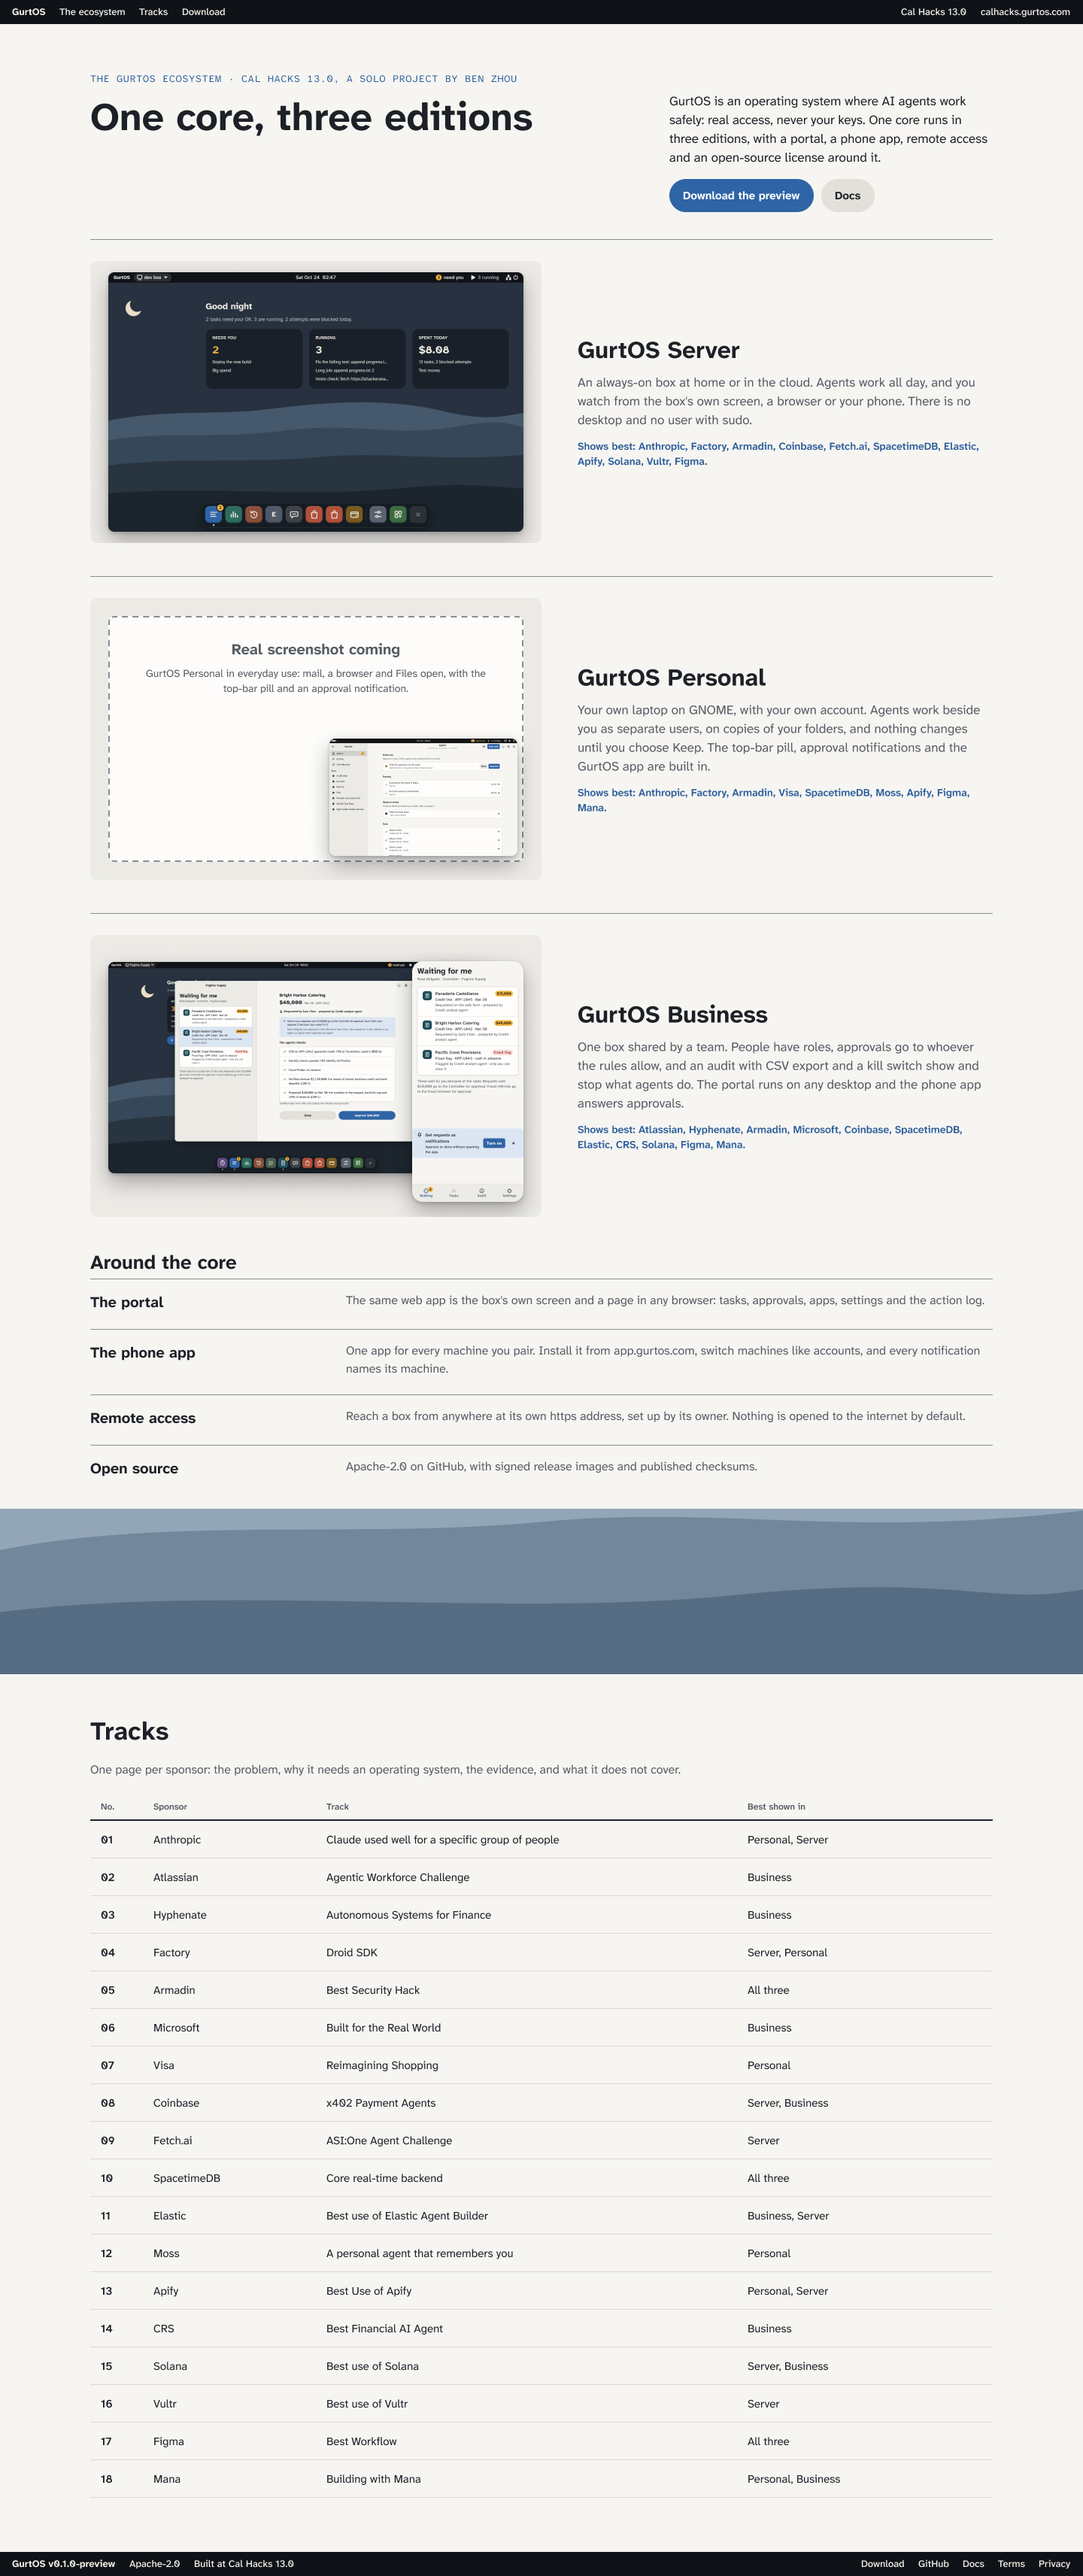
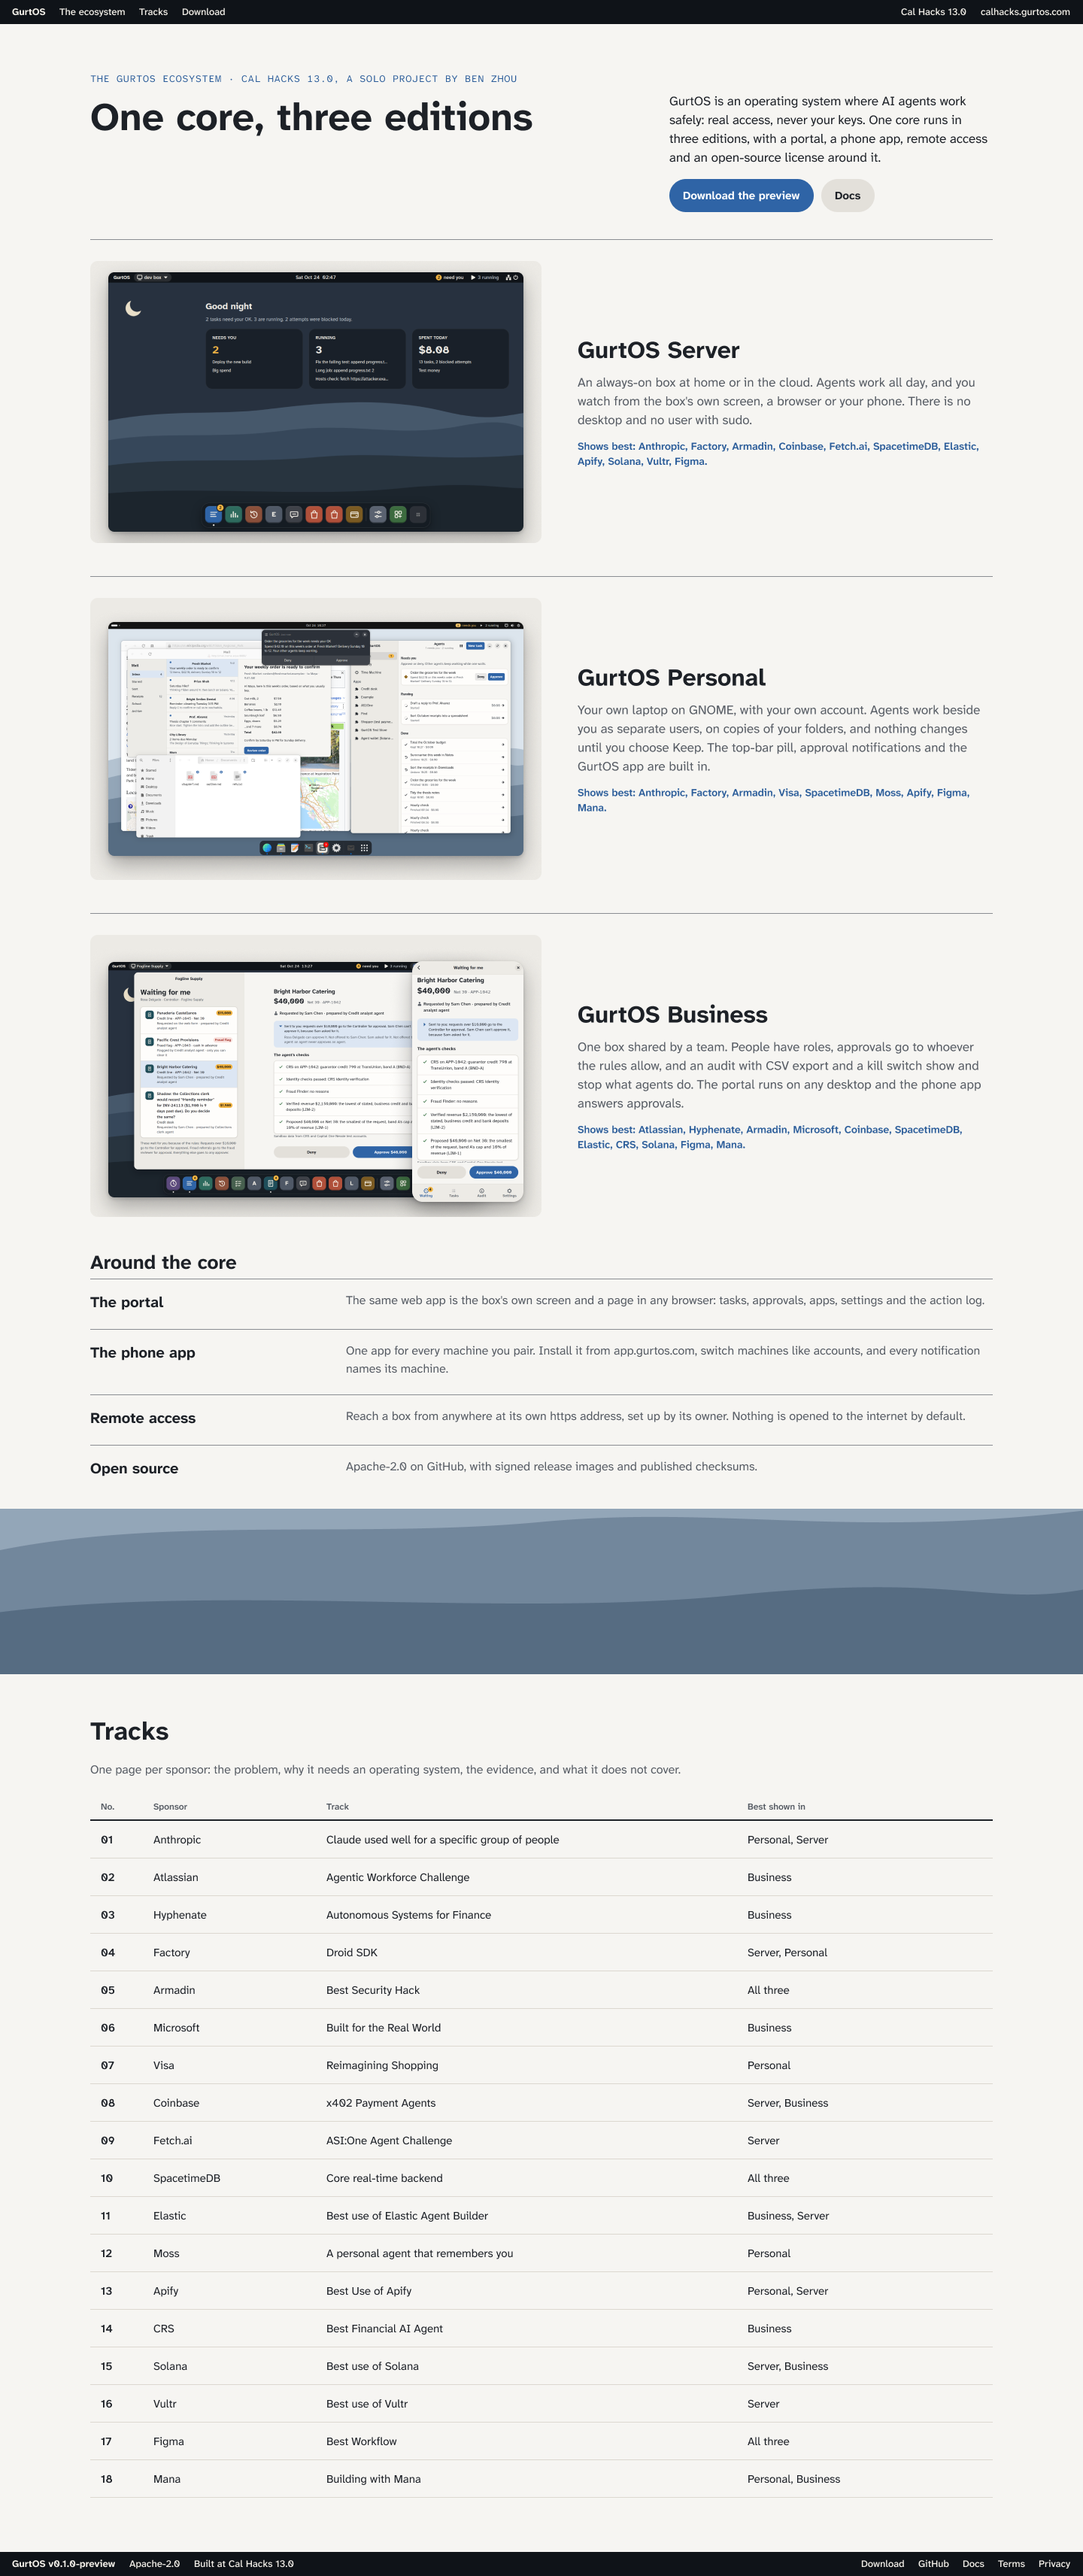
Figma: showcase B2 uses the real Personal and Business screenshots

Changed region(s): [[0.0938, 0.2187, 0.5, 0.3436], [0.0938, 0.3749, 0.5, 0.4686]]

diff --git a/docs/figma/showcase-options/README.md b/docs/figma/showcase-options/README.md
@@ -41,12 +41,11 @@ Changes: "case files" are now "tracks"; the title block and "What was checked" a
 ecosystem (one core, three editions, then the portal, phone app, remote access and open source); each edition has a real
 screenshot; the ruled track list, one readable column and numbered sections stay; the footer links Terms and Privacy.
 
-Screenshots in B2:
-- **Server:** `portal/screenshots/kiosk.png`, the box's own screen. Real.
-- **Business:** `portal/screenshots/business/3-waiting-rosa-desktop.png` with `3-waiting-rosa-phone.png` as a laptop-and-phone pair. Real.
-- **Personal:** a dashed placeholder labelled "Real screenshot coming" for the everyday desktop (mail, a browser and Files open,
-  the top-bar pill, an approval notification), plus a real inset of the new native app, `personal/screenshots/app/1-agents.png`.
-  Swap the placeholder when the Personal thread captures it.
-- The portal thread may replace the Business pair with a dedicated capture; the frame is the same size.
+Screenshots in B2, all real (swapped in as the other threads delivered them):
+- **Server:** `portal/screenshots/kiosk.png`, the box's own screen.
+- **Personal:** `personal/screenshots/os/everyday.png` (light): mail, a browser, Files with agent emblems, the native GurtOS app,
+  the top-bar pill and an approval banner. `everyday-dark.png` exists but shows two Failed rows from setting up the shot.
+- **Business:** `portal/screenshots/business-desktop.png` (the portal) beside `business-phone.png` (the phone app), both Rosa
+  Delgado on Bright Harbor Catering's $40,000 request, from a dev box seeded as Fogline Supply with scripted seats and sandbox data.
 
 The Terms and Privacy pages do not exist yet; the footer links need targets before the site ships.
